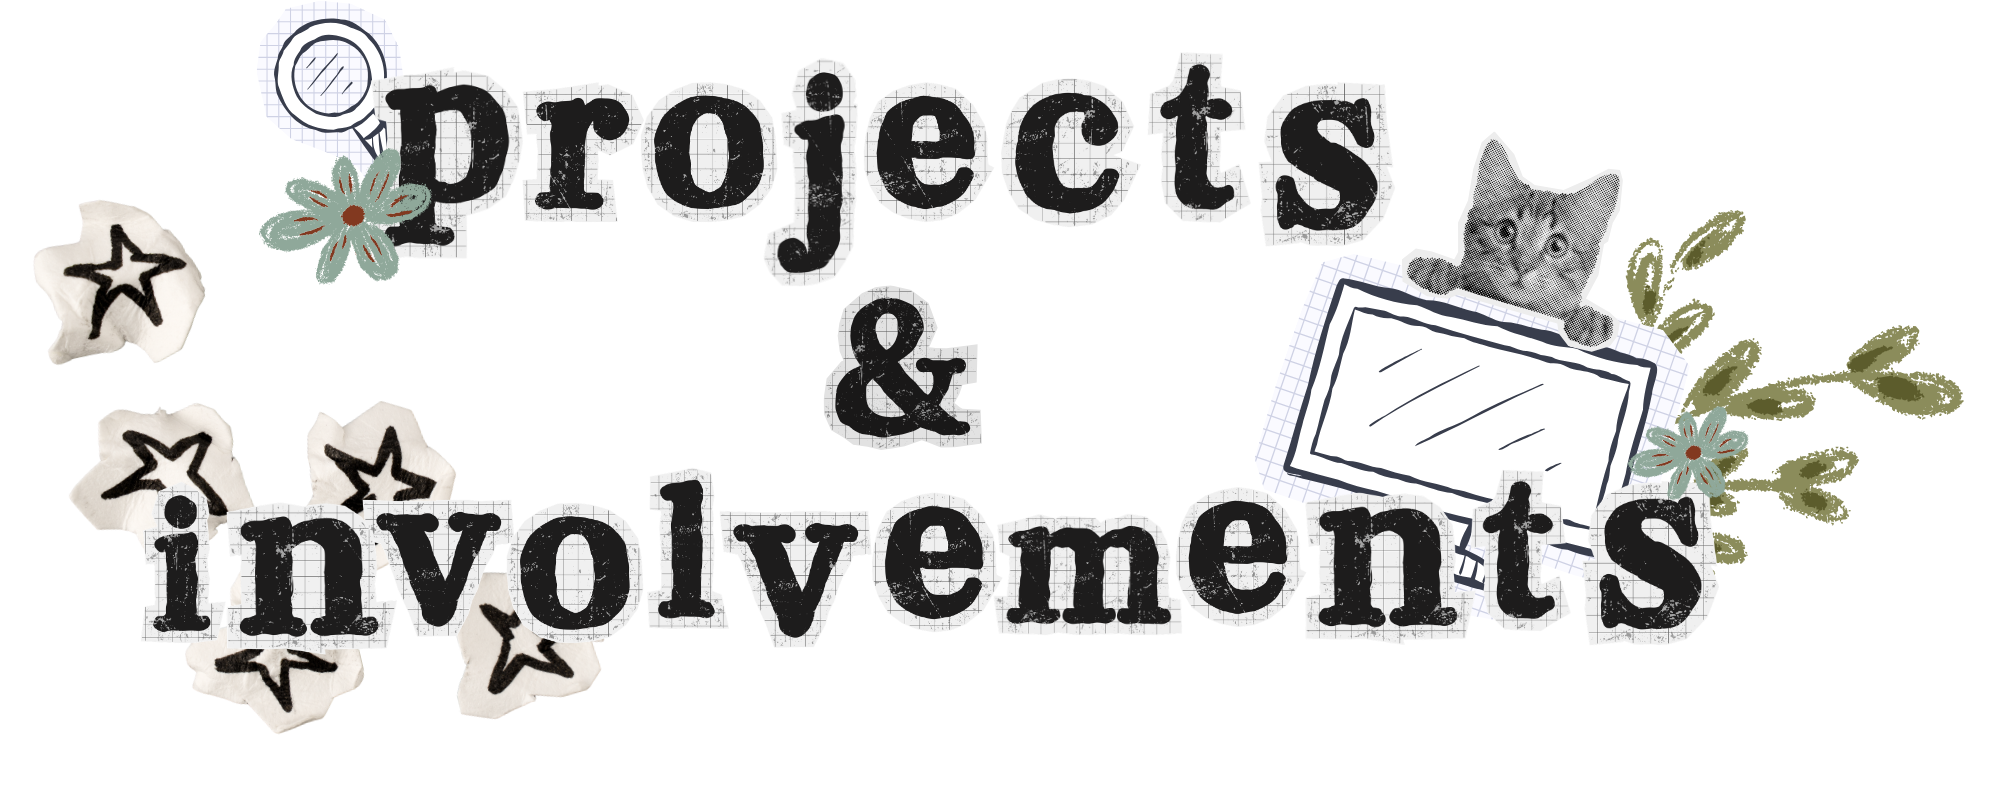
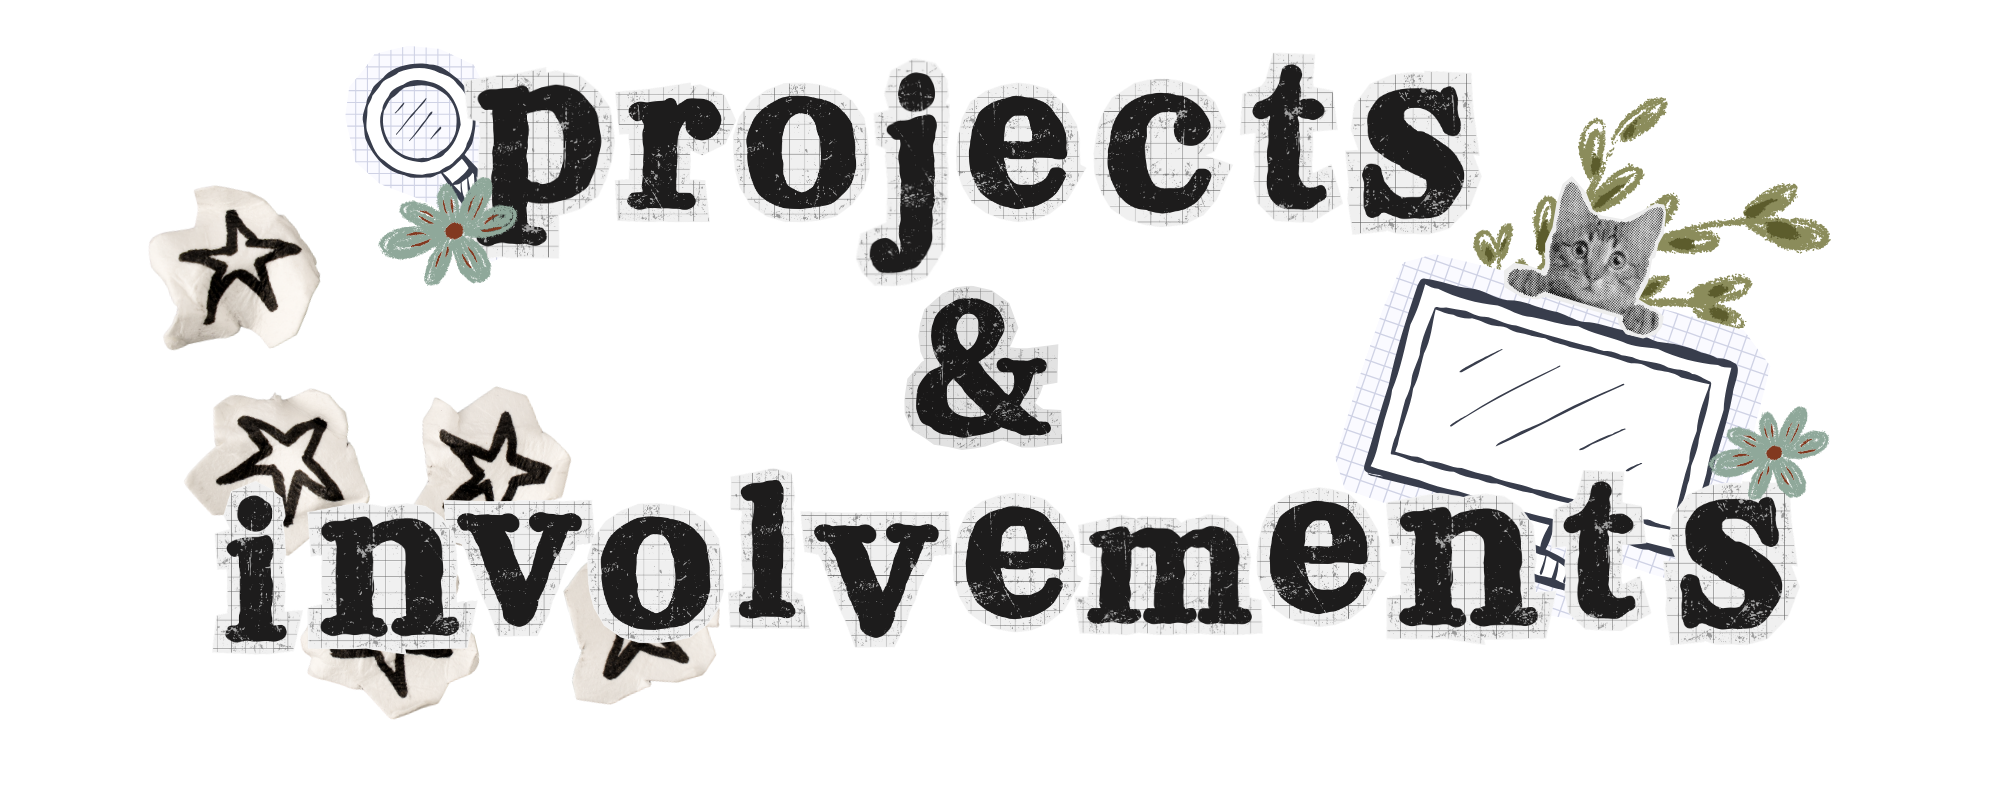
modified:   experiences.html 	modified:   experiences_header.png 	modified:   projects.html additional layout changes for mobile

Changed region(s): [[0.0, 0.0, 0.992, 0.9352], [0.744, 0.5299, 0.775, 0.5611]]

diff --git a/projects.html b/projects.html
@@ -157,7 +157,7 @@ body {
     }
 }
 
-/* 5. PAGE ELEMENTS & POSITIONS */
+/* 5. PAGE ELEMENTS & DESKTOP POSITIONS */
 .artprojects_header {
     width: 950px;
     height: auto;
@@ -224,7 +224,7 @@ body {
     filter: drop-shadow(0px 18px 22px rgba(0, 0, 0, 0.25));
 }
 
-/* 7. CONTACT CARD (Matches Overview Card typography) */
+/* 7. CONTACT CARD */
 .contact-card {
     width: 650px;
     height: auto;
@@ -294,8 +294,6 @@ body {
     transform: translateY(-2px);
 }
 
-
-
 /* 8. LIGHTBOX MODAL OVERLAY */
 .art-modal {
     display: none;
@@ -362,6 +360,107 @@ body {
 .back-to-top:hover {
     transform: translateY(-4px) scale(1.05);
     color: rgb(63, 26, 248);
+}
+
+/* 10. TRUE MOBILE-FRIENDLY RESPONSIVE STYLES */
+@media (max-width: 850px) {
+    body {
+        min-height: auto !important;
+        padding-top: 80px;
+        padding-bottom: 60px;
+        display: flex !important;
+        flex-direction: column !important;
+        align-items: center !important;
+        gap: 25px !important;
+    }
+
+    .navbar {
+        justify-content: center !important;
+        padding: 0 15px !important;
+    }
+
+    .navbar a {
+        font-size: 95% !important;
+        margin: 0 10px !important;
+    }
+
+    /* Convert absolute positioned elements to natural flex items */
+    .artprojects_header,
+    .paper-card,
+    .sample_projects1, 
+    .sample_projects2, 
+    .sample_projects3, 
+    .sample_projects4, 
+    .sample_projects5 {
+        position: relative !important;
+        top: auto !important;
+        left: auto !important;
+        height: auto !important;
+    }
+
+    .artprojects_header {
+        width: 90% !important;
+        max-width: 400px !important;
+        position: static !important;
+        margin-top: 55% !important;
+        margin-bottom: 55% !important;
+
+    }
+
+    .paper-card {
+        width: 90% !important;
+        max-width: 450px !important;
+        padding: 25px 20px !important;
+    }
+
+    .about-card .card-content,
+    .contact-card .card-content {
+        padding: 0 !important;
+    }
+
+    .about-card p.overview-body,
+    .contact-card p.contact-text {
+        font-size: 110% !important;
+        line-height: 1.5 !important;
+    }
+
+    .about-card p.overview-body{
+        margin-top: -2% !important;
+        margin-bottom: 5% !important;
+        margin-left: 2% !important;
+        margin-right: 2% !important;
+
+    }
+
+    .sample_projects1, 
+    .sample_projects2, 
+    .sample_projects3, 
+    .sample_projects4, 
+    .sample_projects5 {
+        width: 90% !important;
+        max-width: 450px !important;
+    }
+
+    .contact-links {
+        flex-direction: column !important;
+        width: 100%;
+        gap: 10px !important;
+    }
+
+    .contact-btn {
+        width: 100%;
+        box-sizing: border-box;
+        text-align: center;
+        font-size: 105% !important;
+        padding: 12px 15px !important;
+    }
+
+    .back-to-top {
+        bottom: 15px;
+        right: 15px;
+        padding: 10px 16px;
+        font-size: 80%;
+    }
 }
 
 </style>

diff --git a/experiences.html b/experiences.html
@@ -165,8 +165,8 @@ body {
     height: auto; 
     position: absolute; 
     filter: drop-shadow(0px 12px 15px rgba(0, 0, 0, 0.05)); 
-    top: 160px; 
-    left: 310px;    
+    top: 170px; 
+    left: 260px;    
     animation: 
         popOutHeader 0.8s cubic-bezier(0.34, 1.56, 0.64, 1) forwards,
         floatHeader 6s ease-in-out 0.8s infinite;
@@ -425,13 +425,15 @@ body {
     }
 
     .experiences_header_img {
-        position: relative !important;
-        top: 0 !important;
-        left: 0 !important;
-        width: 90% !important;
+        position: static !important;
+        width: 100% !important;
         max-width: 380px !important;
         height: auto !important;
-        margin-bottom: 20px !important;
+        margin-bottom: 55% !important;
+        margin-top: 55% !important;
+        margin-left: 0% !important;
+
+
     }
 
     .paper-card {
@@ -442,7 +444,7 @@ body {
         max-width: 420px !important;
         height: auto !important;
         margin: 15px auto !important;
-        padding: 20px 15px !important;
+        padding: 0 0 !important;
     }
 
     .experiences-card1, .experiences-card2, .experiences-card3, .experiences-card4, .experiences-card5, .contact-card {
@@ -451,7 +453,11 @@ body {
     }
 
     .card-content {
-        padding: 20px 15px !important;
+        margin-top: 2% !important;
+    }
+
+    .contact-card .card-content {
+        padding: 30px 20px !important;
     }
 
     h1 {
@@ -460,9 +466,17 @@ body {
     }
 
     .subtitle ul, .card-content ul {
-        font-size: 100% !important;
-        padding-right: 0 !important;
-        text-align: left !important;
+        font-size: large !important;
+        text-align: justify !important;
+        margin-left: 0% !important;
+        margin-bottom: 10% !important;
+        margin-top: 5% !important;
+        padding-left: 0% !important;
+        padding-right: 0% !important;   
+    }
+
+    .subtitle ul li, .card-content ul li{
+        padding: 5% 0px !important;
     }
 
     /* Adjust modal arrows for touch screens */
